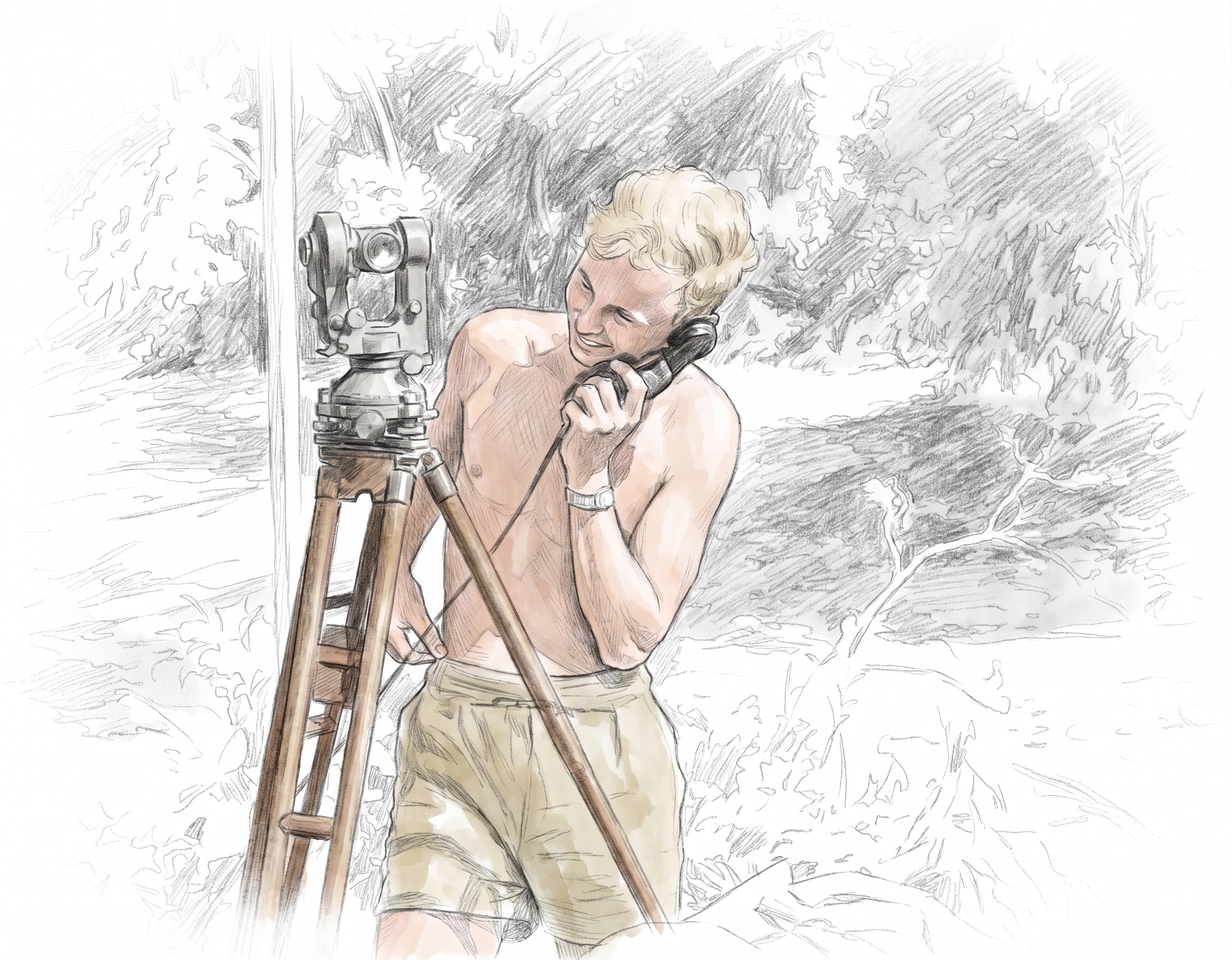
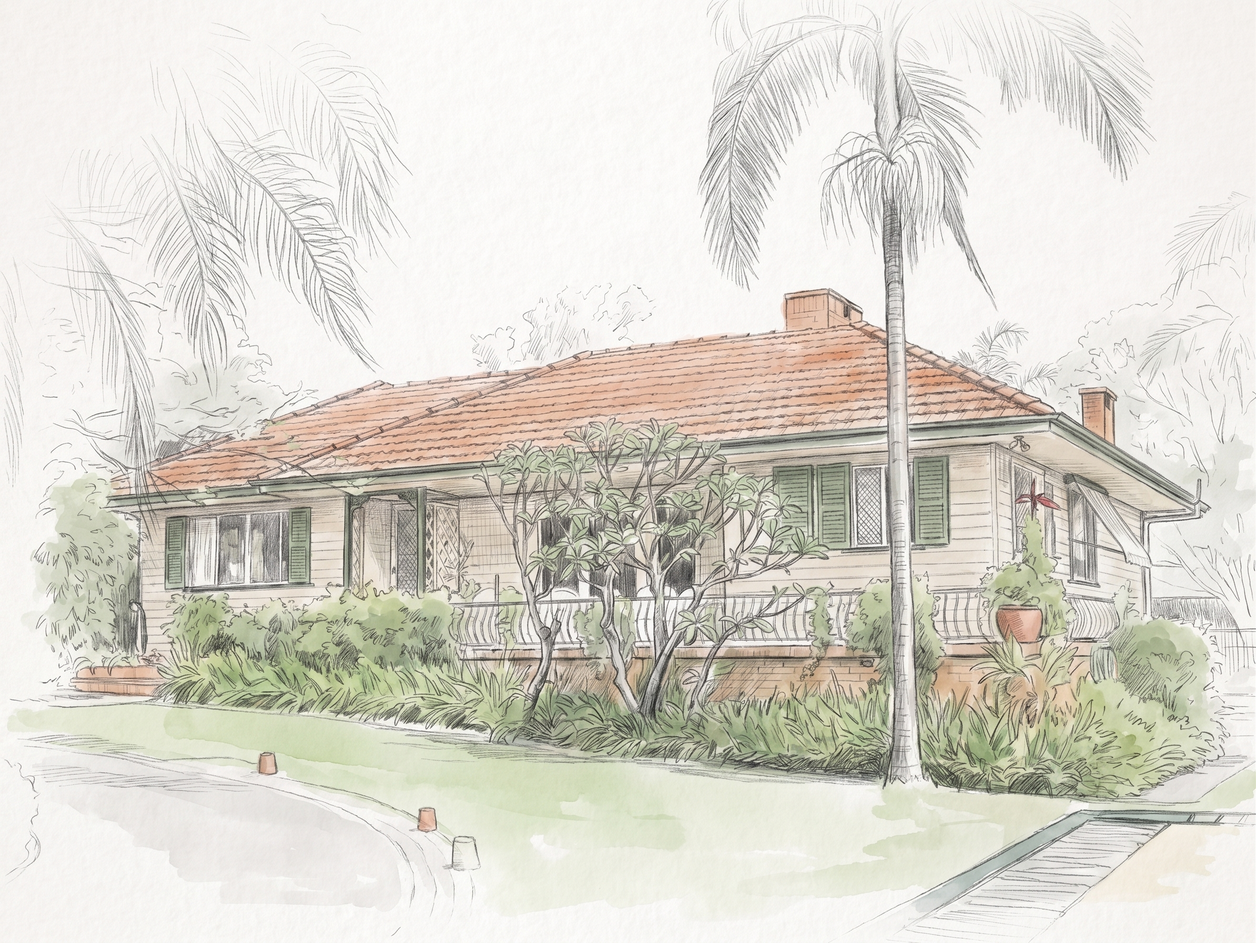
Update collection index

diff --git a/index.html b/index.html
@@ -5,6 +5,7 @@
 <meta name="viewport" content="width=device-width, initial-scale=1">
 <title>Robert Francis Skitch</title>
 
+
 <meta name="description" content="From a boyhood in the Collie coalfields to Lieutenant Colonel, and finally to civilian life in Brisbane - memoirs spanning eight decades of Australian life.">
 <link rel="canonical" href="https://history.skitch.me/index.html">
 <meta property="og:type" content="website">
@@ -13,10 +14,12 @@
 <meta property="og:title" content="Robert Francis Skitch">
 <meta property="og:description" content="From a boyhood in the Collie coalfields to Lieutenant Colonel, and finally to civilian life in Brisbane - memoirs spanning eight decades of Australian life.">
 <meta property="og:url" content="https://history.skitch.me/index.html">
+
 <meta name="robots" content="index,follow,max-image-preview:large,max-snippet:-1,max-video-preview:-1">
 <meta name="twitter:card" content="summary">
 <meta name="twitter:title" content="Robert Francis Skitch">
 <meta name="twitter:description" content="From a boyhood in the Collie coalfields to Lieutenant Colonel, and finally to civilian life in Brisbane - memoirs spanning eight decades of Australian life.">
+
 <style>
   *, *::before, *::after { box-sizing: border-box; margin: 0; padding: 0; }
 
@@ -115,29 +118,29 @@
   <div class="banner">
     
     <div class="banner-cell">
-      <span class="era">Bendigo - 1978</span>
-      
-      <img src="homepage_assets/banner-0.jpg" alt="Lt. Col. R. F. Skitch.">
-      
-      <p class="img-label">Lt. Col. R. F. Skitch.</p>
-      
-    </div>
-    
-    <div class="banner-cell">
       <span class="era">Collie - 1949</span>
       
-      <img src="homepage_assets/banner-1.jpg" alt="Life in a caravan with Mum.">
+      <img src="homepage_assets/banner-0.jpg" alt="Life in a caravan with Mum.">
       
       <p class="img-label">Life in a caravan with Mum.</p>
       
     </div>
     
     <div class="banner-cell">
-      <span class="era">New Ireland - 1956</span>
+      <span class="era">Bendigo - 1979</span>
       
-      <img src="homepage_assets/banner-2.jpg" alt="Bob Skitch undertaking survey observations using Wild T2 theodolite.">
+      <img src="homepage_assets/banner-1.jpg" alt="Lt. Col. R.F. Skitch">
       
-      <p class="img-label">Bob Skitch undertaking survey observations using Wild T2 theodolite.</p>
+      <p class="img-label">Lt. Col. R.F. Skitch</p>
+      
+    </div>
+    
+    <div class="banner-cell">
+      <span class="era">Boondall - 1981</span>
+      
+      <img src="homepage_assets/banner-2.jpg" alt=""Tanglin", home for twenty-eight years, named in fond memory of Singapore.">
+      
+      <p class="img-label">"Tanglin", home for twenty-eight years, named in fond memory of Singapore.</p>
       
     </div>
     
